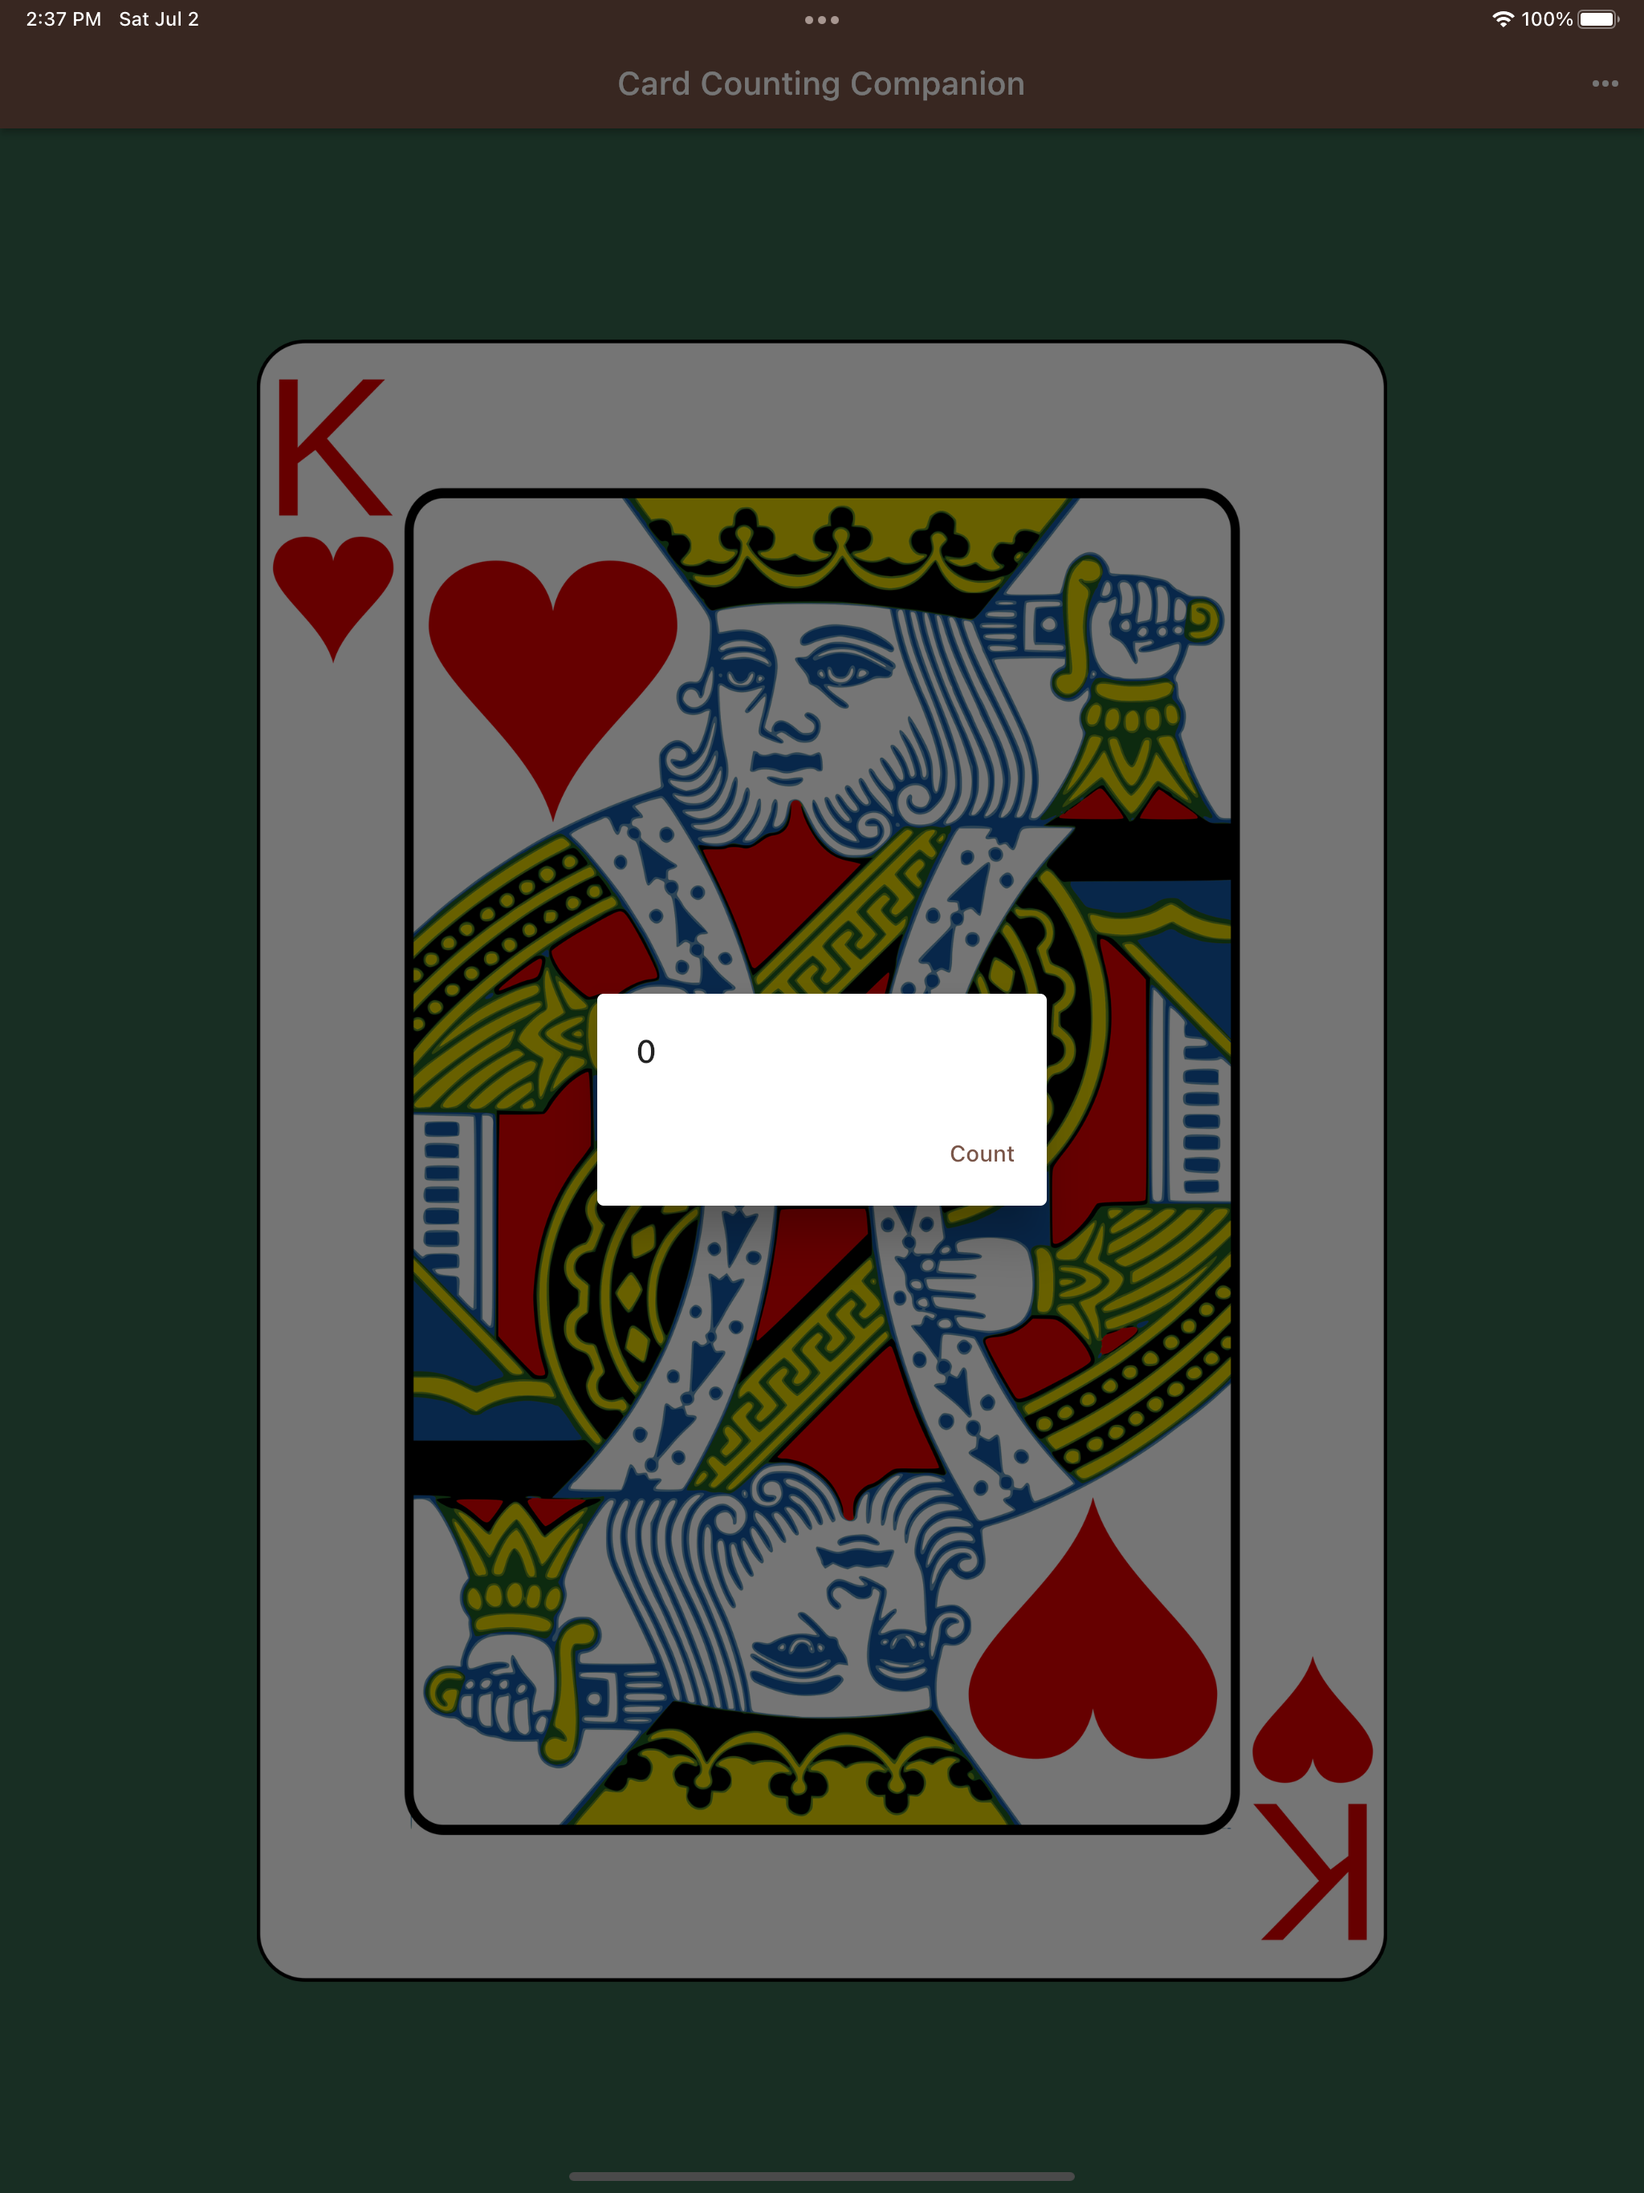
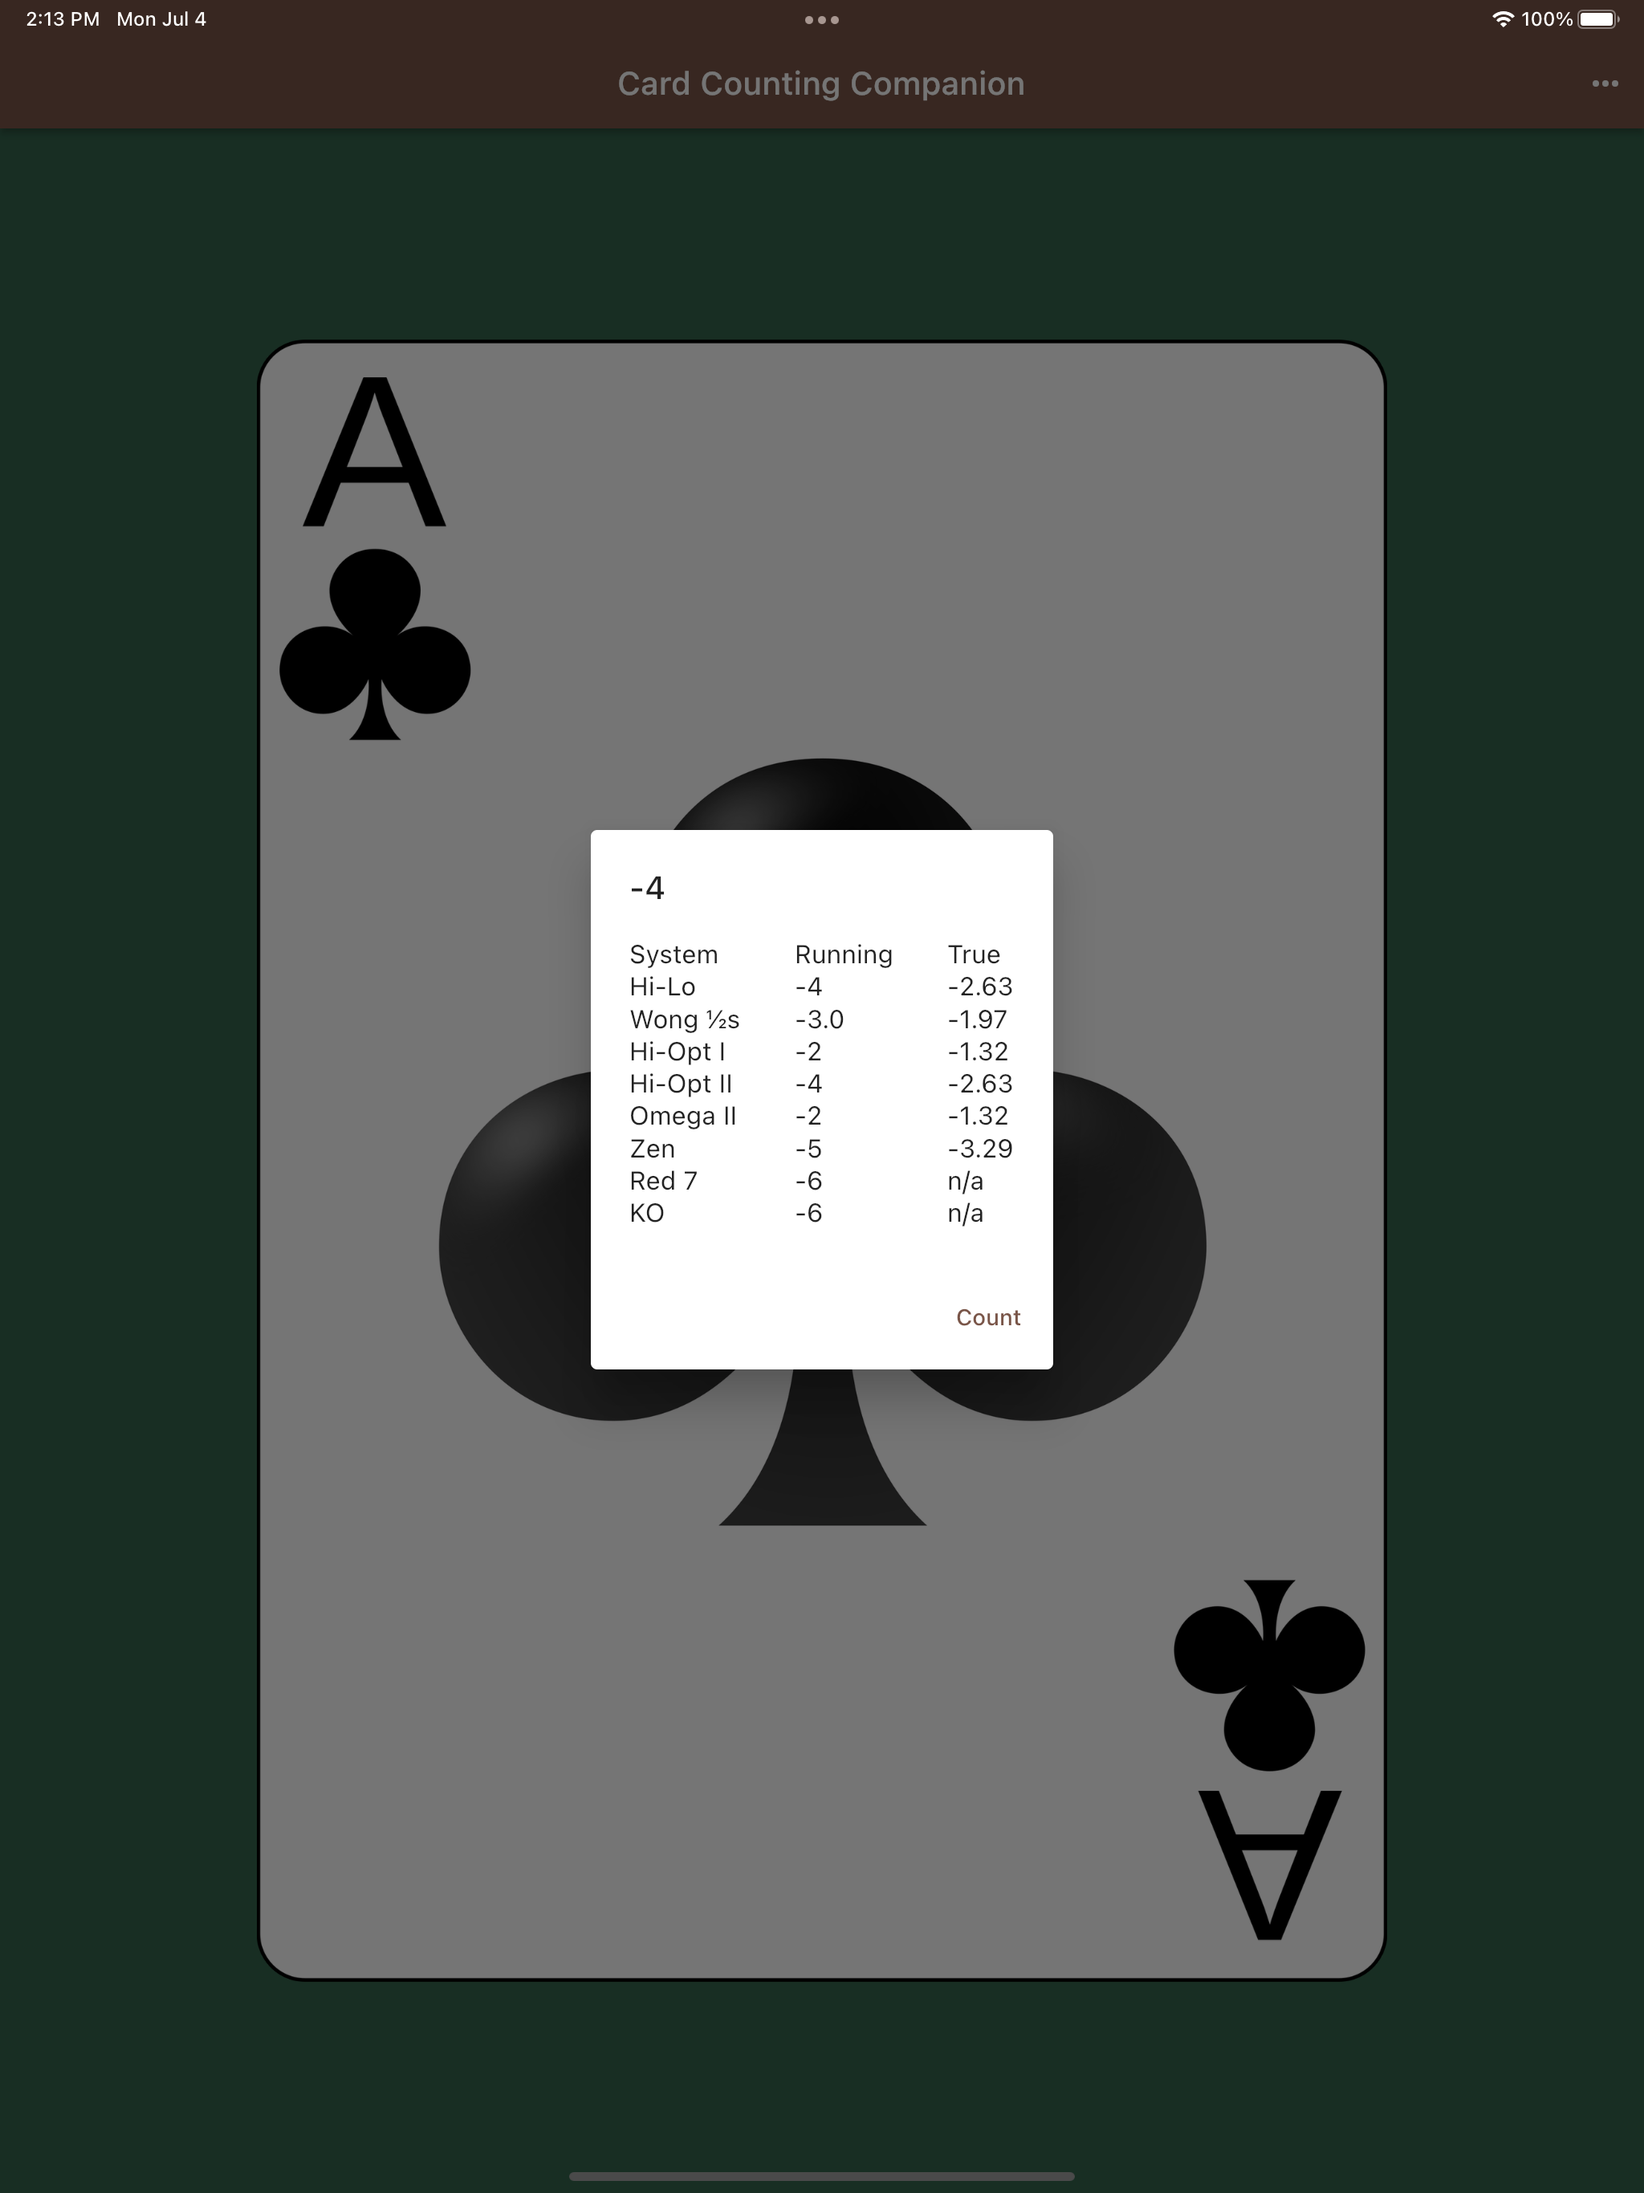
took screenshots of updated count dialog

Changed region(s): [[0.1562, 0.1556, 0.8438, 0.9023], [0.0938, 0.0, 0.125, 0.0311], [0.0312, 0.0, 0.0625, 0.0311]]

diff --git a/lib/main.dart b/lib/main.dart
@@ -186,98 +186,94 @@ class _MyHomePageState extends State<MyHomePage>
     final red7       = _deck.count_red7;
     final ko         = _deck.count_ko;
 
-    final size       = MediaQuery.of(context).size;
-    var _width = size.width;
-    var _height = size.height;
-    if (size.height > size.width) {
-      _width *= 2/3;
-      _height = _width * 4/5;
-    }
-    else {
-      _height *= 2/3;
-      _width = _height * 4/5;
-    }
+    var _width  = 240.0;
+    var _height = 180.0;
+    final size  = MediaQuery.of(context).size;
+    if (size.width < _width || size.height < _height)
+      _width = _height = (size.height > size.width ? size.width : size.height) * 2/3;
 
     showDialog(
       context: context,
       builder: (BuildContext ctx) => AlertDialog(
         title: Text(title),
-        content: SingleChildScrollView(child: Container(
-          width: _width,
-          height: _height,
-          child: Row(
-            children: <Widget>[
-              Column(
-                crossAxisAlignment: CrossAxisAlignment.start,
-                children: <Widget>[
-                  const Text('System'),
-                  const Spacer(),
-                  const Text('Hi-Lo'),
-                  const Spacer(),
-                  const Text('Wong ½s'),
-                  const Spacer(),
-                  const Text('Hi-Opt I'),
-                  const Spacer(),
-                  const Text('Hi-Opt II'),
-                  const Spacer(),
-                  const Text('Omega II'),
-                  const Spacer(),
-                  const Text('Zen'),
-                  const Spacer(),
-                  const Text('Red 7'),
-                  const Spacer(),
-                  const Text('KO'),
-                ],
-              ),
-              const Spacer(),
-              Column(
-                crossAxisAlignment: CrossAxisAlignment.start,
-                children: <Widget>[
-                  const Text('Running'),
-                  const Spacer(),
-                  Text('$hilo'),
-                  const Spacer(),
-                  Text(wonghalves.toStringAsFixed(1)),
-                  const Spacer(),
-                  Text('$hiopti'),
-                  const Spacer(),
-                  Text('$hioptii'),
-                  const Spacer(),
-                  Text('$omegaii'),
-                  const Spacer(),
-                  Text('$zen'),
-                  const Spacer(),
-                  Text('$red7'),
-                  const Spacer(),
-                  Text('$ko'),
-                ],
-              ),
-              const Spacer(),
-              Column(
-                crossAxisAlignment: CrossAxisAlignment.start,
-                children: <Widget>[
-                  const Text('True'),
-                  const Spacer(),
-                  Text(trueCount(hilo/1)),
-                  const Spacer(),
-                  Text(trueCount(wonghalves)),
-                  const Spacer(),
-                  Text(trueCount(hiopti/1)),
-                  const Spacer(),
-                  Text(trueCount(hioptii/1)),
-                  const Spacer(),
-                  Text(trueCount(omegaii/1)),
-                  const Spacer(),
-                  Text(trueCount(zen/1)),
-                  const Spacer(),
-                  Text('n/a'),
-                  const Spacer(),
-                  Text('n/a'),
-                ],
-              ),
-            ],
+        content: SingleChildScrollView(
+          child: Container(
+            width: _width,
+            height: _height,
+            child: Row(
+              children: <Widget>[
+                Column(
+                  crossAxisAlignment: CrossAxisAlignment.start,
+                  children: <Widget>[
+                    const Text('System'),
+                    const Spacer(),
+                    const Text('Hi-Lo'),
+                    const Spacer(),
+                    const Text('Wong ½s'),
+                    const Spacer(),
+                    const Text('Hi-Opt I'),
+                    const Spacer(),
+                    const Text('Hi-Opt II'),
+                    const Spacer(),
+                    const Text('Omega II'),
+                    const Spacer(),
+                    const Text('Zen'),
+                    const Spacer(),
+                    const Text('Red 7'),
+                    const Spacer(),
+                    const Text('KO'),
+                  ],
+                ),
+                const Spacer(),
+                Column(
+                  crossAxisAlignment: CrossAxisAlignment.start,
+                  children: <Widget>[
+                    const Text('Running'),
+                    const Spacer(),
+                    Text('$hilo'),
+                    const Spacer(),
+                    Text(wonghalves.toStringAsFixed(1)),
+                    const Spacer(),
+                    Text('$hiopti'),
+                    const Spacer(),
+                    Text('$hioptii'),
+                    const Spacer(),
+                    Text('$omegaii'),
+                    const Spacer(),
+                    Text('$zen'),
+                    const Spacer(),
+                    Text('$red7'),
+                    const Spacer(),
+                    Text('$ko'),
+                  ],
+                ),
+                const Spacer(),
+                Column(
+                  crossAxisAlignment: CrossAxisAlignment.start,
+                  children: <Widget>[
+                    const Text('True'),
+                    const Spacer(),
+                    Text(trueCount(hilo/1)),
+                    const Spacer(),
+                    Text(trueCount(wonghalves)),
+                    const Spacer(),
+                    Text(trueCount(hiopti/1)),
+                    const Spacer(),
+                    Text(trueCount(hioptii/1)),
+                    const Spacer(),
+                    Text(trueCount(omegaii/1)),
+                    const Spacer(),
+                    Text(trueCount(zen/1)),
+                    const Spacer(),
+                    Text('n/a'),
+                    const Spacer(),
+                    Text('n/a'),
+                  ],
+                ),
+              ],
+            ),
           ),
-        ),),
+        ),
         actions: <Widget>[
           TextButton(
             child: const Text('Count'),
